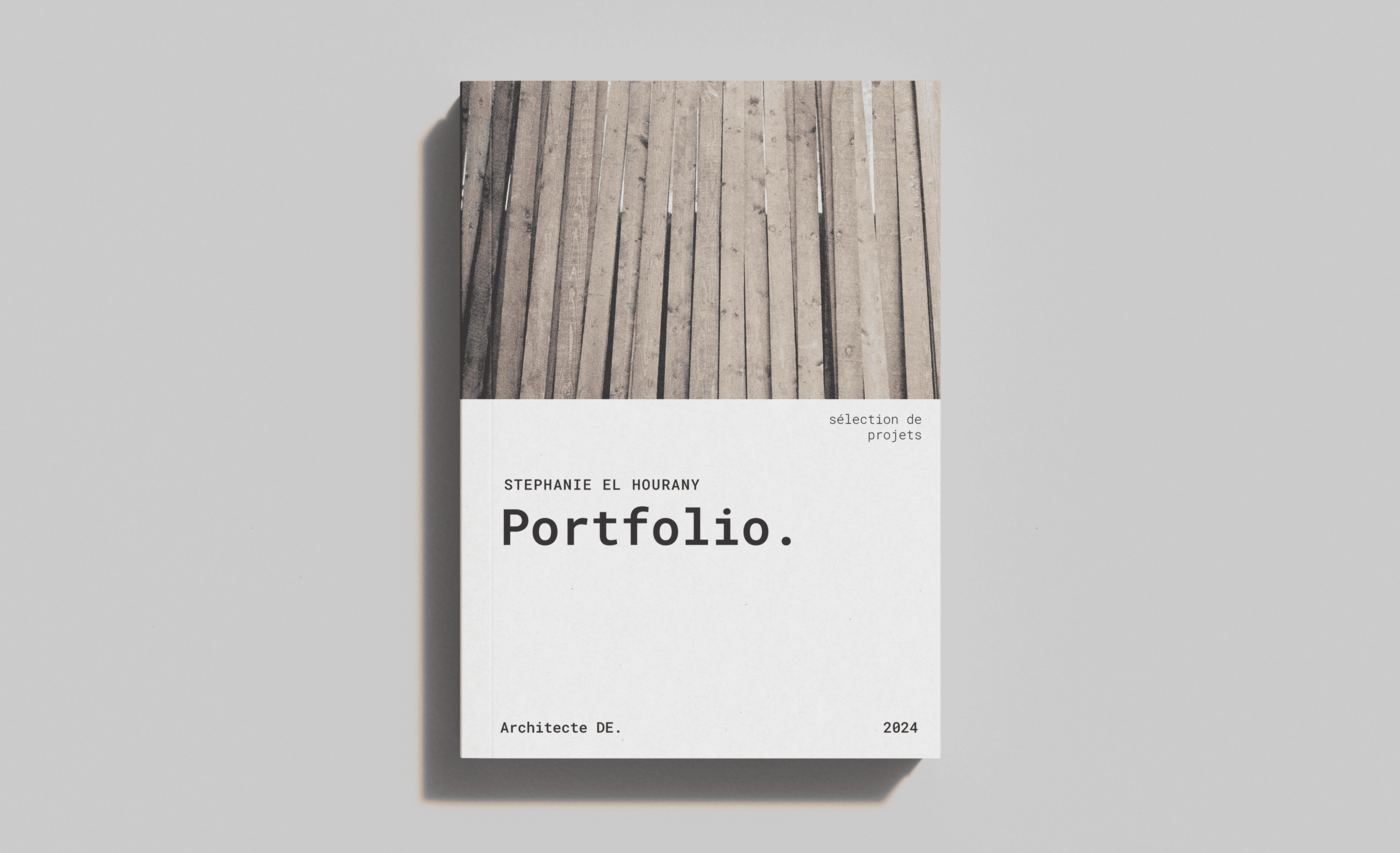
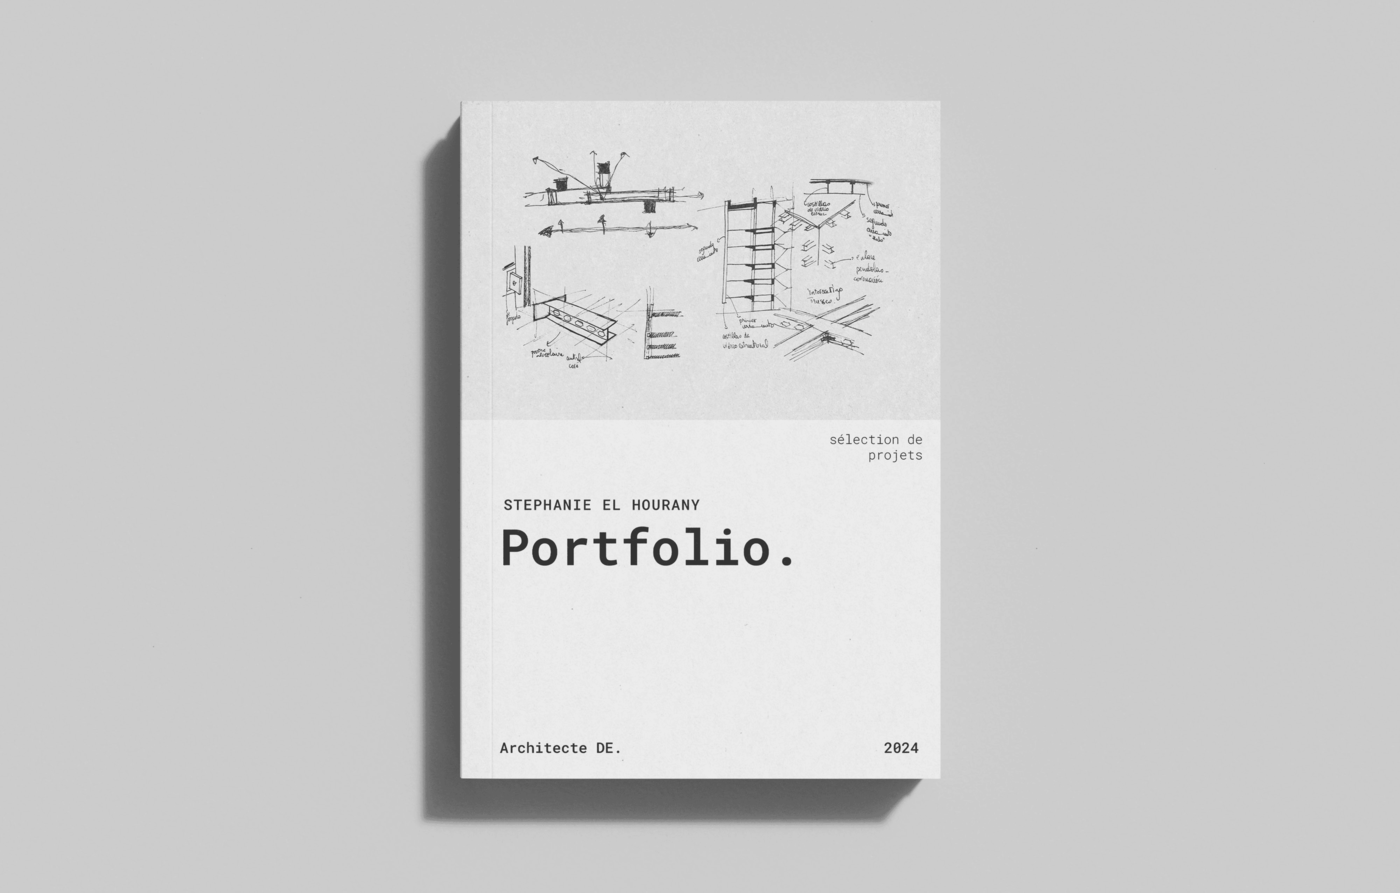
changing first image of the portfolio and adjusting image size to not crop

Changed region(s): [[0.2764, 0.0914, 0.6757, 0.5182], [0.2764, 0.823, 0.6757, 0.9449], [0.3379, 0.5487, 0.5529, 0.6401]]

diff --git a/app/assets/stylesheets/_home.scss b/app/assets/stylesheets/_home.scss
@@ -2,19 +2,18 @@
   display: flex;
   flex-direction: column;
   align-items: center;
-  justify-content: center;
+  justify-content: flex-start; /* Start content at the top */
 
   .hero-landing {
-    height: calc(100vh - 90px); /* Full view height minus navbar */
     width: 100%;
     display: flex;
     justify-content: center;
-    align-items: center;
+    align-items: flex-start; /* Align the image at the top */
+    height: auto; /* Allow height to adjust based on content */
 
     .hero-landing-image {
-      width: 100%;
-      height: 100%;
-      object-fit: cover;
+      width: 100%; /* Full width */
+      height: auto; /* Maintain aspect ratio */
     }
   }
 
